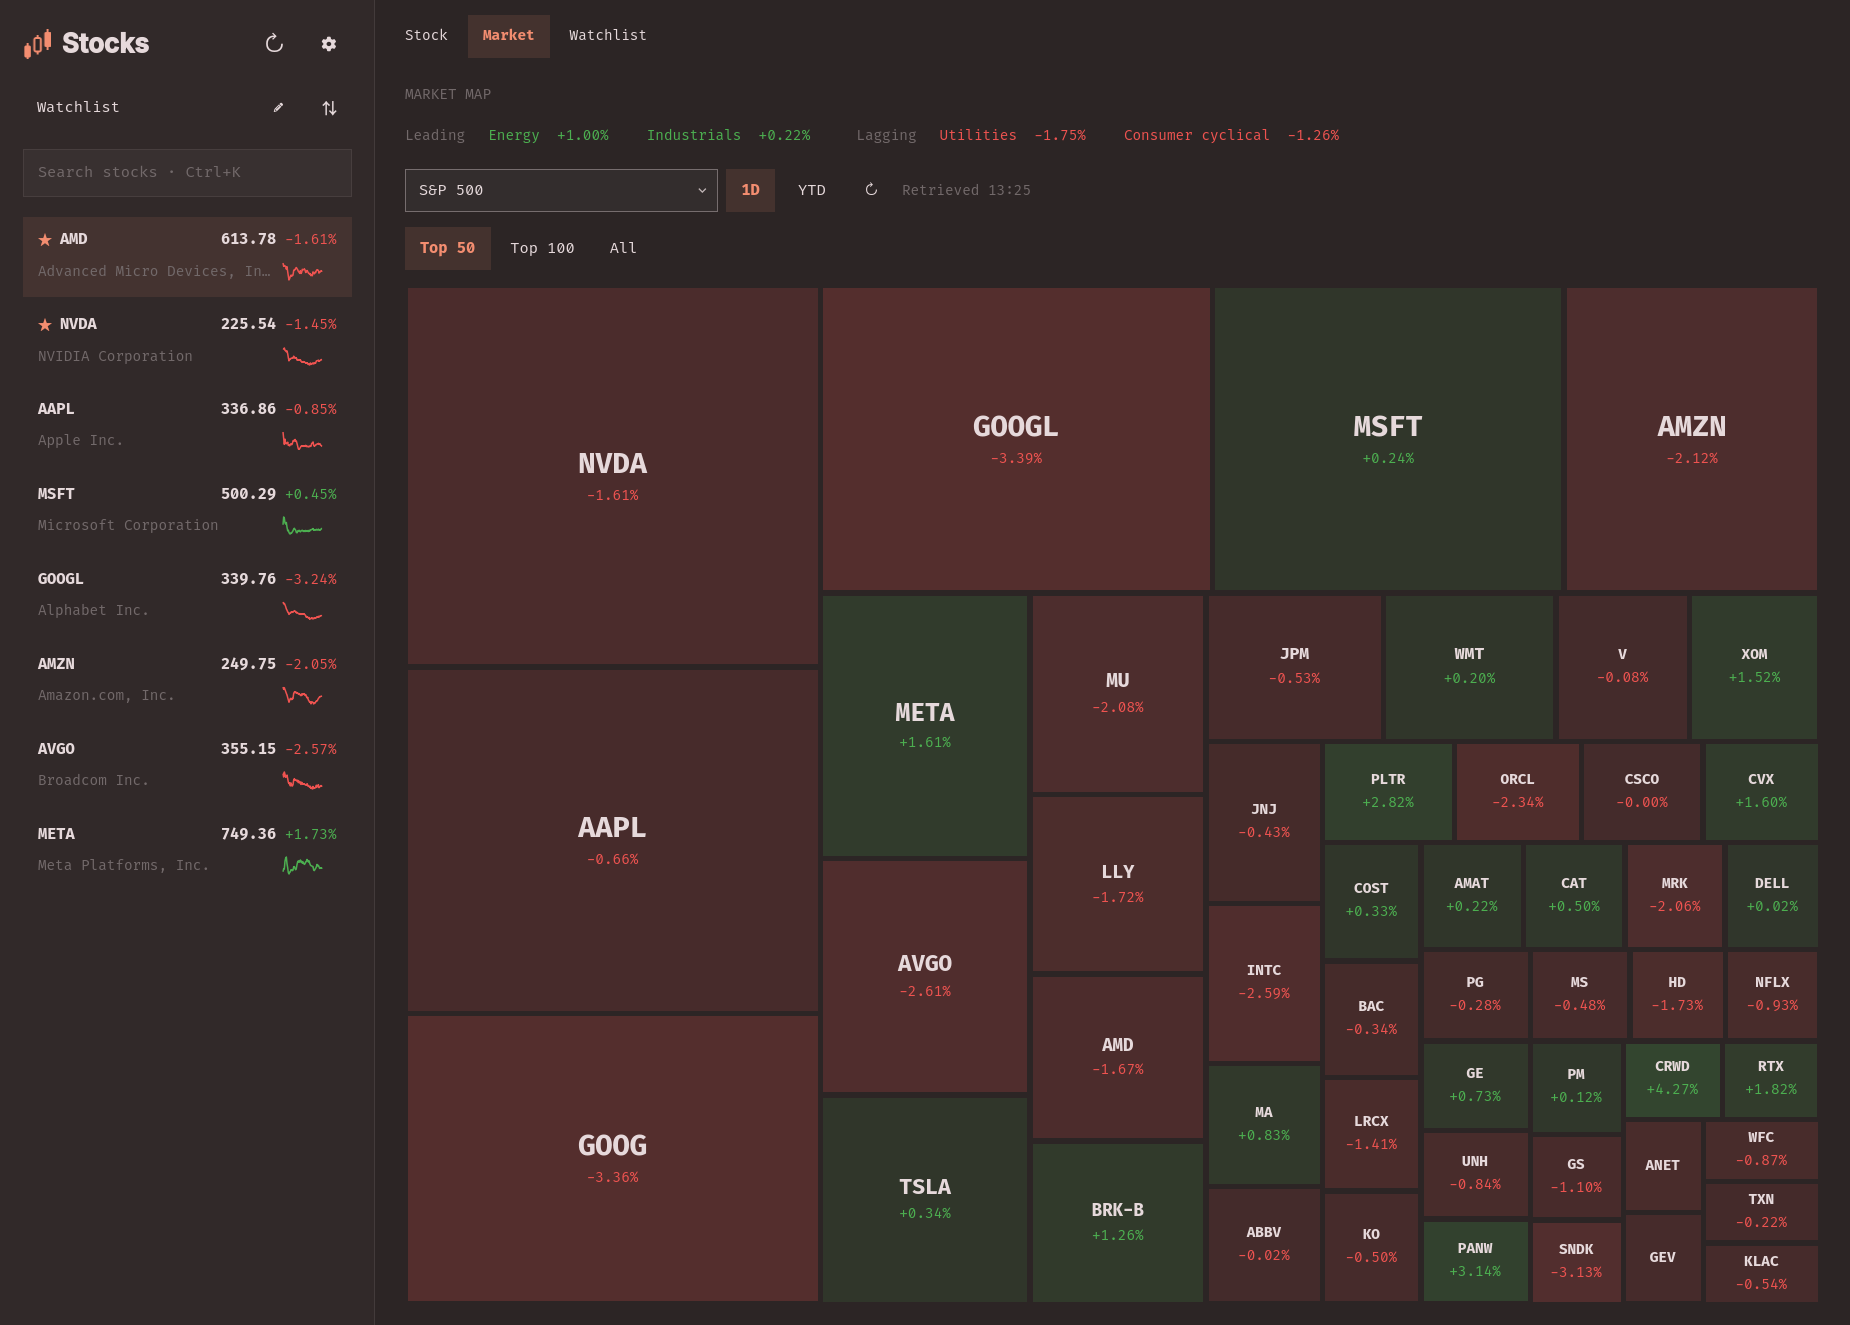
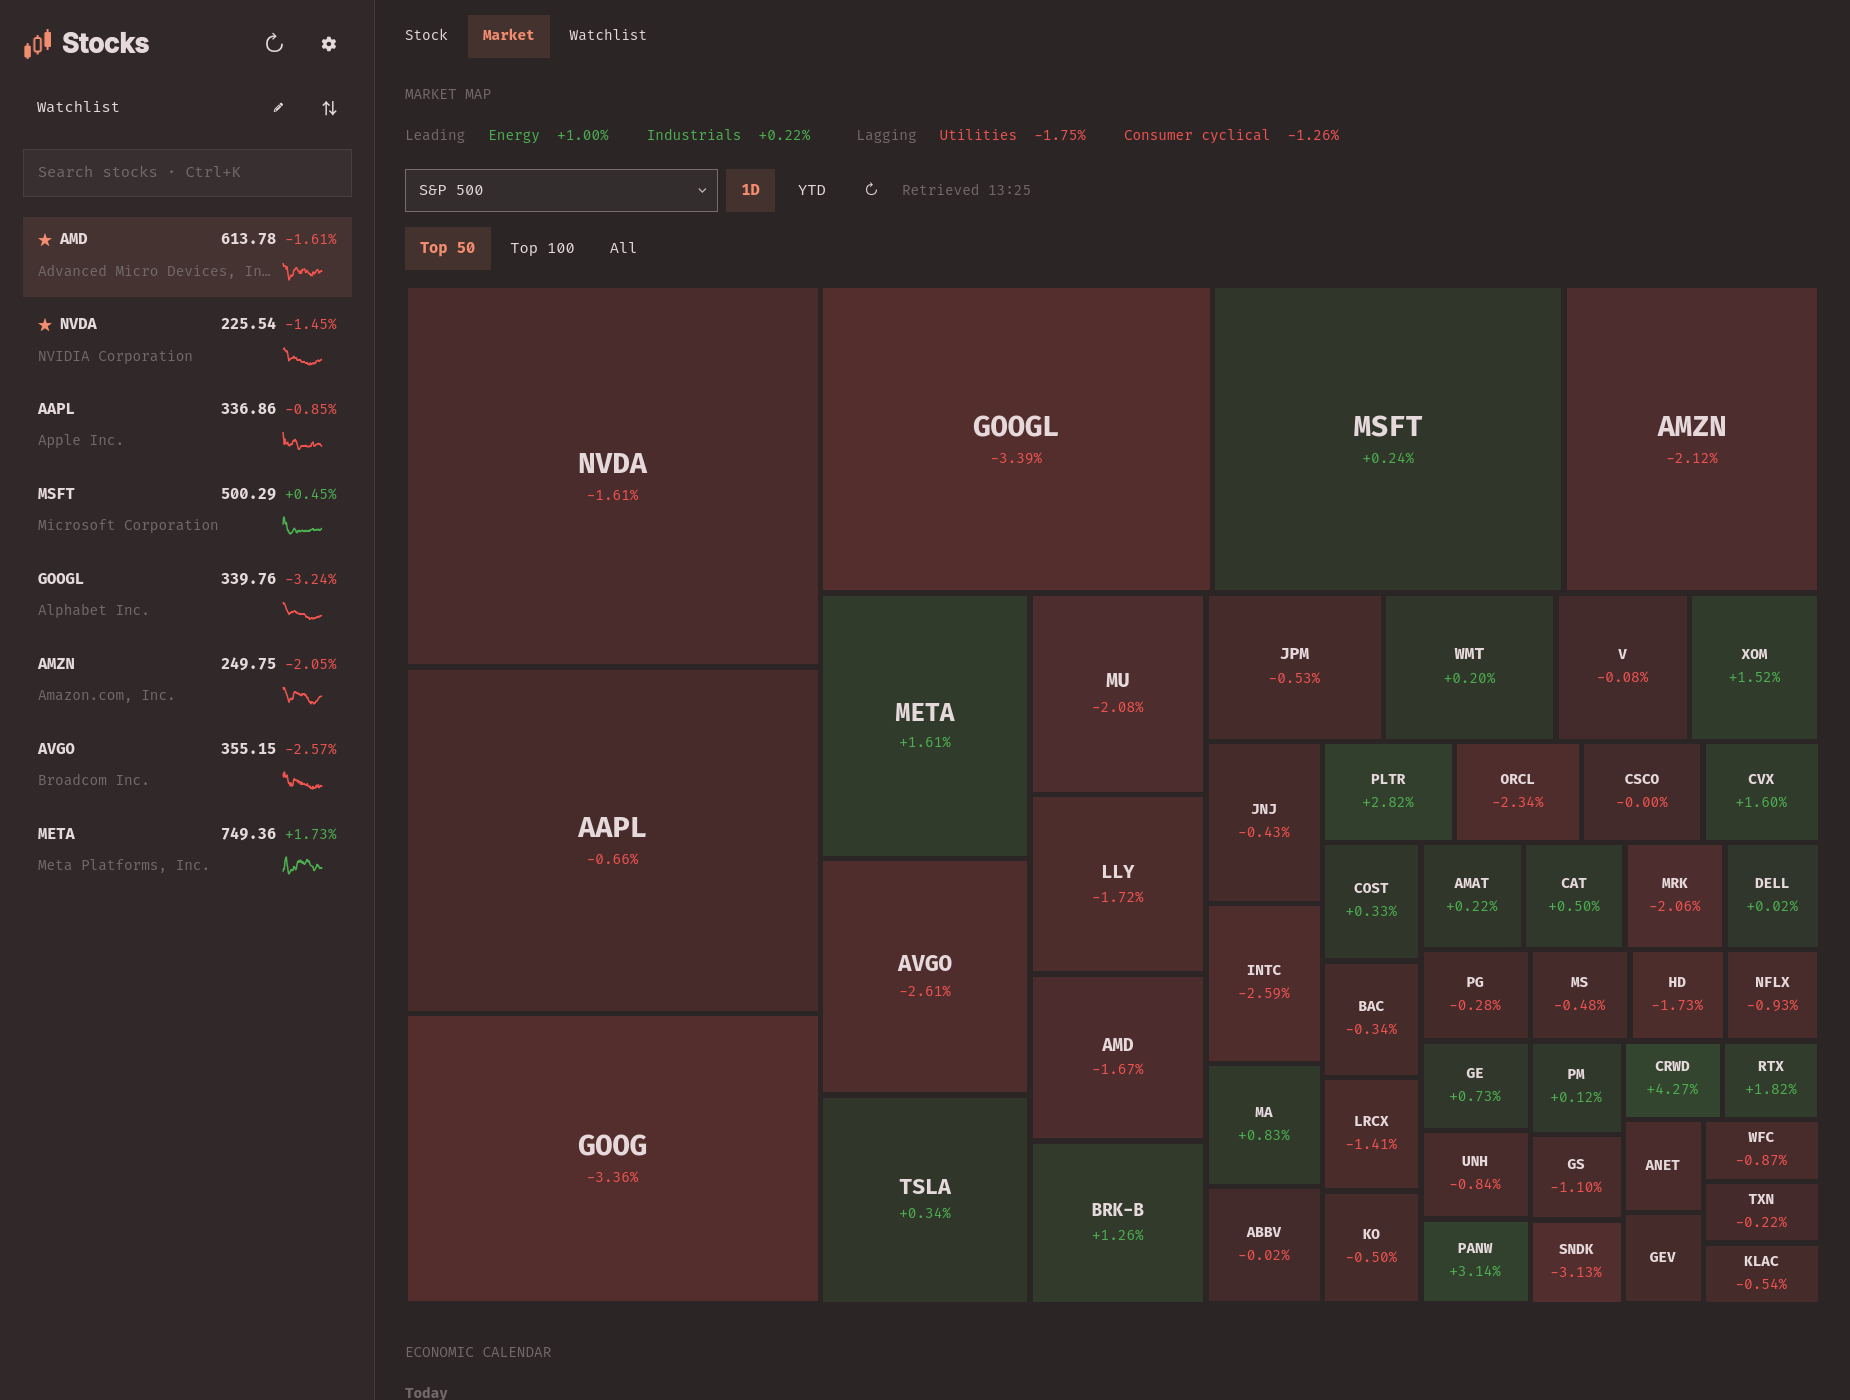
Refresh AMD hero and add a consistent thumbnail gallery
Retake the Market view, standardize full-window screenshots at 1850x1400, preserve the monthly stock chart, and link six compact README thumbnails to their full-resolution images.

diff --git a/README.md b/README.md
@@ -4,7 +4,7 @@ A tileable stock research app for [Omarchy](https://omarchy.org), with an option
 favorites ticker in the top bar. Built with Quickshell; follows your desktop's
 theme, fonts and scaling. No API keys or Python dependencies.
 
-![Stocks: price chart, watchlist and market details](preview.png)
+![Omastocks opening on AMD: daily chart, watchlist and stock research](preview.png)
 
 ## Install
 
@@ -62,25 +62,22 @@ benchmark, instrument or tile to open its Stock view.
 
 ## Screenshots
 
-<details>
-<summary>Market overview, heatmap, watchlist, research and comparison</summary>
+Click a thumbnail to view the full-size screenshot.
 
-### Market overview
-![Benchmarks, cross-asset prices and market sentiment](docs/screenshots/market.png)
-
-### Market map
-![S&P 500 market-cap-weighted heatmap](docs/screenshots/heatmap.png)
-
-### Watchlist
-![Watchlist performance and earnings calendar](docs/screenshots/watchlist.png)
-
-### Company research
-![Quarterly financial statements and analyst research](docs/screenshots/research.png)
-
-### Compare
-![Stock comparison chart and fundamental metrics](docs/screenshots/compare.png)
-
-</details>
+<table>
+  <tr>
+    <td align="center"><a href="docs/screenshots/stock.png"><img src="docs/screenshots/thumbs/stock.png" width="420" alt="AMD monthly chart with moving average and volume"></a><br><b>Stock chart</b></td>
+    <td align="center"><a href="docs/screenshots/market.png"><img src="docs/screenshots/thumbs/market.png" width="420" alt="Market benchmarks, cross-asset prices and sentiment"></a><br><b>Market overview</b></td>
+  </tr>
+  <tr>
+    <td align="center"><a href="docs/screenshots/heatmap.png"><img src="docs/screenshots/thumbs/heatmap.png" width="420" alt="S&amp;P 500 market-cap-weighted heatmap"></a><br><b>Market map</b></td>
+    <td align="center"><a href="docs/screenshots/watchlist.png"><img src="docs/screenshots/thumbs/watchlist.png" width="420" alt="Watchlist performance and earnings calendar"></a><br><b>Watchlist &amp; Calendar</b></td>
+  </tr>
+  <tr>
+    <td align="center"><a href="docs/screenshots/research.png"><img src="docs/screenshots/thumbs/research.png" width="420" alt="Quarterly financial statements and analyst research"></a><br><b>Company research</b></td>
+    <td align="center"><a href="docs/screenshots/compare.png"><img src="docs/screenshots/thumbs/compare.png" width="420" alt="AMD, NVIDIA and Broadcom charts and fundamentals compared"></a><br><b>Compare</b></td>
+  </tr>
+</table>
 
 ## Data and storage
 

diff --git a/docs/DEVELOPMENT.md b/docs/DEVELOPMENT.md
@@ -92,4 +92,7 @@ omarchy-shell io.github.dmitry-solomadin.omastocks status
 Check Stock, Market and Watchlist; test chart comparison, list selection and settings
 at compact and wide window sizes. Close/reopen using both the compositor and
 `Ctrl+W`. For new screenshots, capture the current rendered app after its data
-loads; keep the cover and gallery consistent with the current branch.
+loads; keep the cover and gallery consistent with the current branch. Full-window
+captures are **1850 × 1400**; gallery thumbnails in `docs/screenshots/thumbs/` are
+600 pixels wide and link to the originals. The cover shows AMD in the initial
+1D view after loading, with default chart controls and collapsed research sections.
